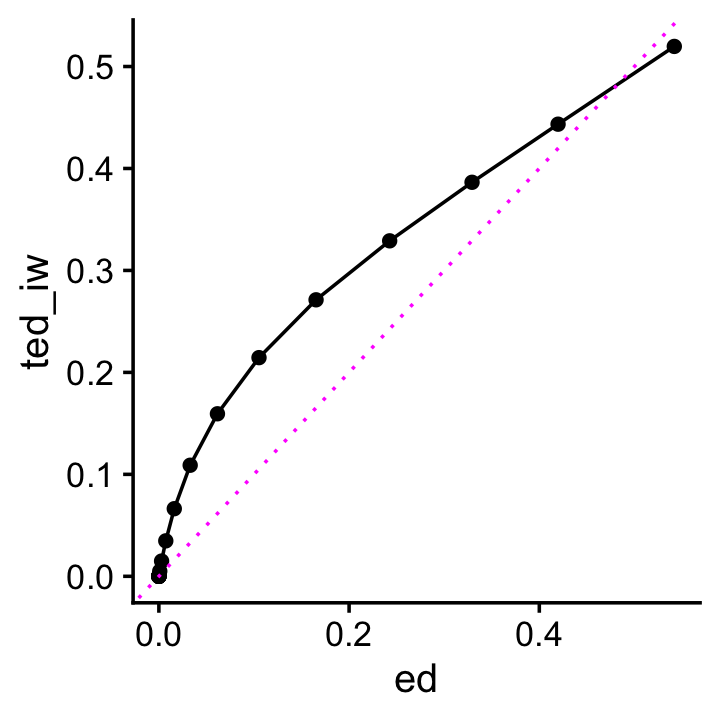
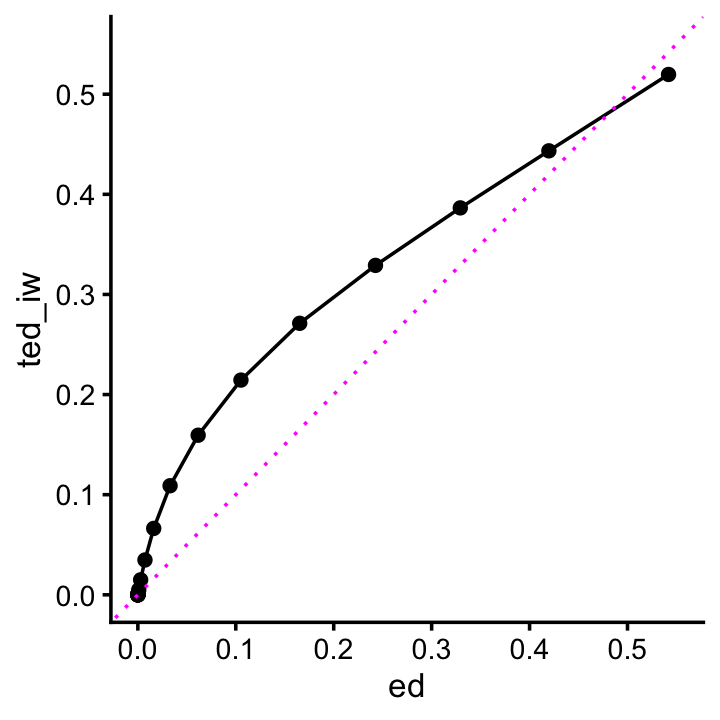
Added a q-q plot comparing the lfsrs from the "old" and "new" MASH analyses of the GTEx data.

diff --git a/docs/gtex_main.html b/docs/gtex_main.html
@@ -445,15 +445,15 @@ project makes it easier to run your code on other machines.</p>
 <div class="panel panel-default">
 <div class="panel-heading">
 <p class="panel-title">
-<a data-toggle="collapse" data-parent="#workflowr-checks" href="#strongRepositoryversionstrongahrefhttpsgithubcomyunqiyang0215udrpapertree5aa2e5538abc9078549433b7fd5d8635545ea2a1targetblank5aa2e55a">
+<a data-toggle="collapse" data-parent="#workflowr-checks" href="#strongRepositoryversionstrongahrefhttpsgithubcomyunqiyang0215udrpapertreea1ee226c0b451b9b46e13653effd6fd6fce57718targetblanka1ee226a">
 <span class="glyphicon glyphicon-ok text-success"
 aria-hidden="true"></span> <strong>Repository version:</strong>
-<a href="https://github.com/yunqiyang0215/udr-paper/tree/5aa2e5538abc9078549433b7fd5d8635545ea2a1" target="_blank">5aa2e55</a>
+<a href="https://github.com/yunqiyang0215/udr-paper/tree/a1ee226c0b451b9b46e13653effd6fd6fce57718" target="_blank">a1ee226</a>
 </a>
 </p>
 </div>
 <div
[2 lines of base64/hex data omitted]
 class="panel-collapse collapse">
 <div class="panel-body">
 <p>
@@ -463,7 +463,7 @@ reproducibility.
 </p>
 <p>
 The results in this page were generated with repository version
-<a href="https://github.com/yunqiyang0215/udr-paper/tree/5aa2e5538abc9078549433b7fd5d8635545ea2a1" target="_blank">5aa2e55</a>.
+<a href="https://github.com/yunqiyang0215/udr-paper/tree/a1ee226c0b451b9b46e13653effd6fd6fce57718" target="_blank">a1ee226</a>.
 See the <em>Past versions</em> tab to see a history of the changes made
 to the R Markdown and HTML files.
 </p>
@@ -483,6 +483,7 @@ Ignored files:
 
 Untracked files:
     Untracked:  gtex_cv.pdf
+    Untracked:  gtex_lfsr.pdf
     Untracked:  gtex_sharing_pattern_legend.pdf
     Untracked:  gtex_sharing_patterns_ed.pdf
     Untracked:  gtex_sharing_patterns_ted_iw.pdf
@@ -532,6 +533,40 @@ Message
 </tr>
 </thead>
 <tbody>
+<tr>
+<td>
+Rmd
+</td>
+<td>
+<a href="https://github.com/yunqiyang0215/udr-paper/blob/a1ee226c0b451b9b46e13653effd6fd6fce57718/analysis/gtex_main.Rmd" target="_blank">a1ee226</a>
+</td>
+<td>
+Peter Carbonetto
+</td>
+<td>
+2025-08-22
+</td>
+<td>
+wflow_publish("analysis/gtex_main.Rmd", verbose = T, view = F)
+</td>
+</tr>
+<tr>
+<td>
+html
+</td>
+<td>
+<a href="https://rawcdn.githack.com/yunqiyang0215/udr-paper/42fb2754075647e85dd8a7bc7f951a0ef37f86df/docs/gtex_main.html" target="_blank">42fb275</a>
+</td>
+<td>
+Peter Carbonetto
+</td>
+<td>
+2025-08-22
+</td>
+<td>
+Build site.
+</td>
+</tr>
 <tr>
 <td>
 Rmd
@@ -1323,12 +1358,52 @@ analyses:</p>
 res_ted_iw &lt;- get_lfsr(mash_ted_iw)
 pdat &lt;- data.frame(ed     = quantile(res_ed,seq(0,1,0.05)),
                    ted_iw = quantile(res_ted_iw,seq(0,1,0.05)))
-ggplot(pdat,aes(x = ed,y = ted_iw)) +
+p &lt;- ggplot(pdat,aes(x = ed,y = ted_iw)) +
   geom_point() +
   geom_line() +
   geom_abline(intercept = 0,slope = 1,color = &quot;magenta&quot;,linetype = &quot;dotted&quot;) +
-  theme_cowplot(font_size = 12)</code></pre>
+  scale_x_continuous(breaks = seq(0,1,0.1),limits = c(0,0.55)) +
+  scale_y_continuous(breaks = seq(0,1,0.1),limits = c(0,0.55)) +
+  theme_cowplot(font_size = 10)
+print(p)</code></pre>
 <p><img src="figure/gtex_main.Rmd/mash-lfsr-1.png" width="360" style="display: block; margin: auto;" /></p>
+<p>
+<button type="button" class="btn btn-default btn-xs btn-workflowr btn-workflowr-fig" data-toggle="collapse" data-target="#fig-mash-lfsr-1">
+Past versions of mash-lfsr-1.png
+</button>
+</p>
+<div id="fig-mash-lfsr-1" class="collapse">
+<div class="table-responsive">
+<table class="table table-condensed table-hover">
+<thead>
+<tr>
+<th>
+Version
+</th>
+<th>
+Author
+</th>
+<th>
+Date
+</th>
+</tr>
+</thead>
+<tbody>
+<tr>
+<td>
+<a href="https://github.com/yunqiyang0215/udr-paper/blob/42fb2754075647e85dd8a7bc7f951a0ef37f86df/docs/figure/gtex_main.Rmd/mash-lfsr-1.png" target="_blank">42fb275</a>
+</td>
+<td>
+Peter Carbonetto
+</td>
+<td>
+2025-08-22
+</td>
+</tr>
+</tbody>
+</table>
+</div>
+</div>
 <p>The short story here is that the “new” workflow concentrates more of
 the lfsrs on values near 1, meaning fewer “significant” effects on gene
 expression. I interpret this result as the new workflow providing a
